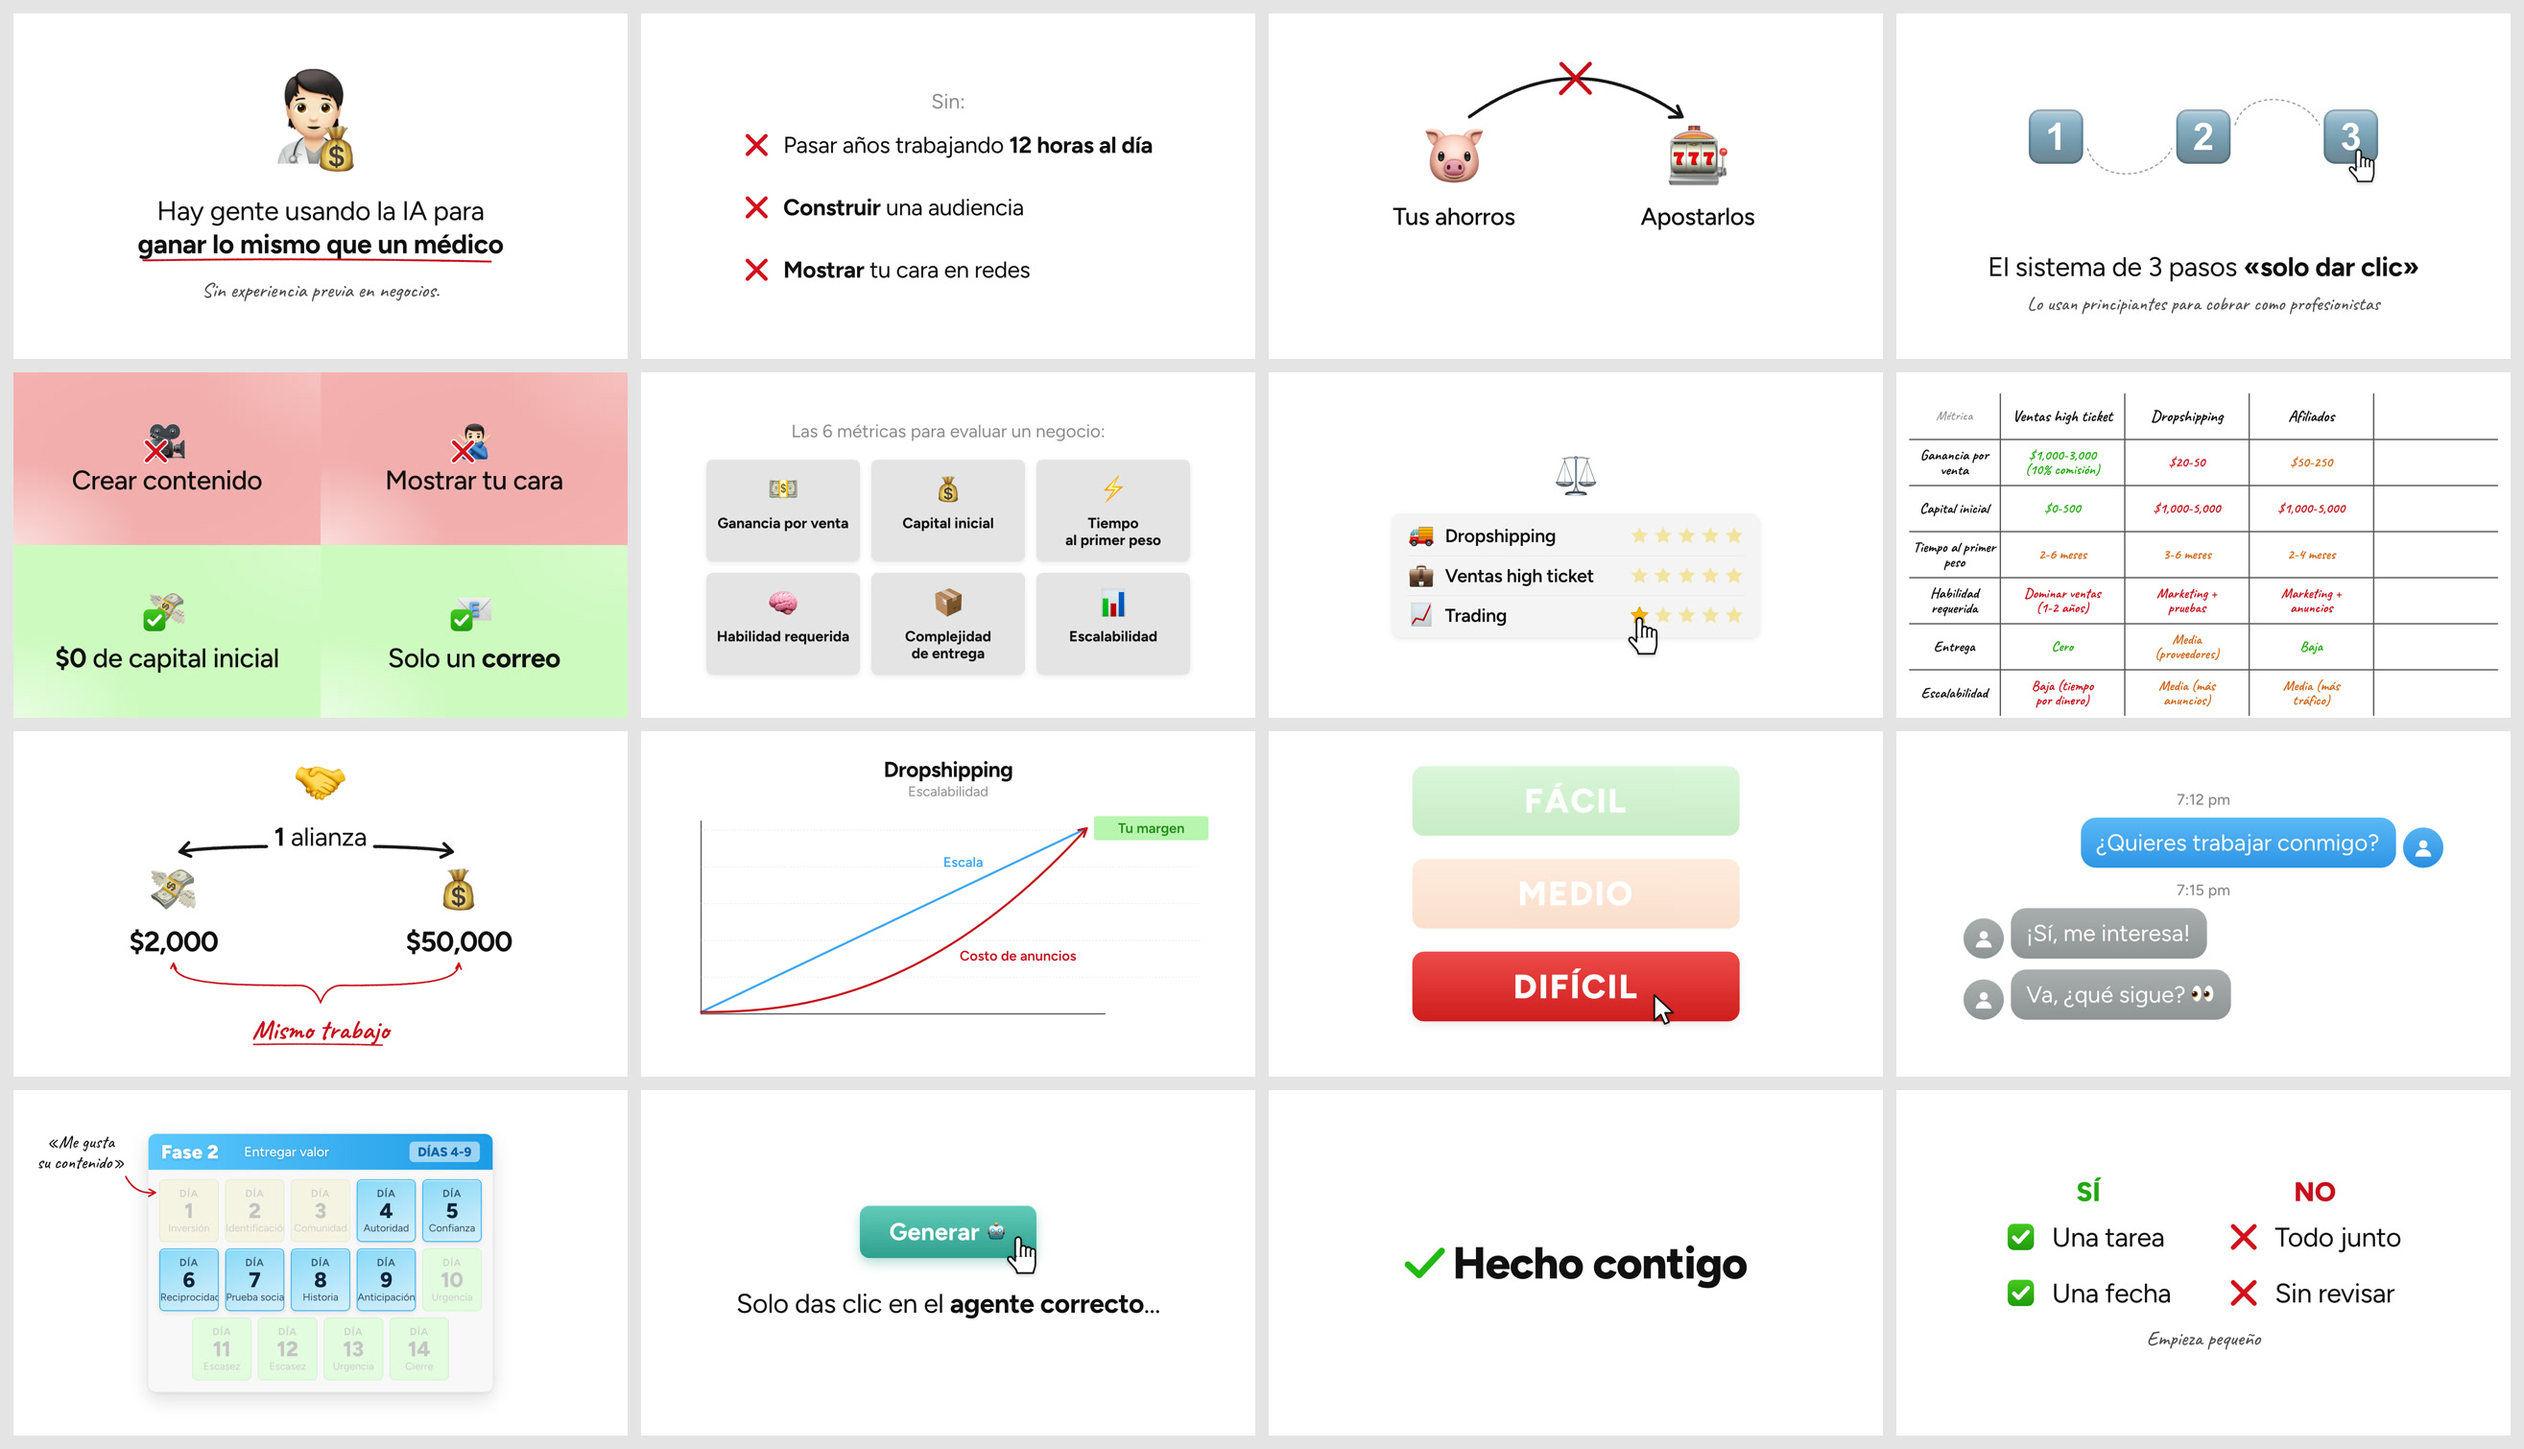
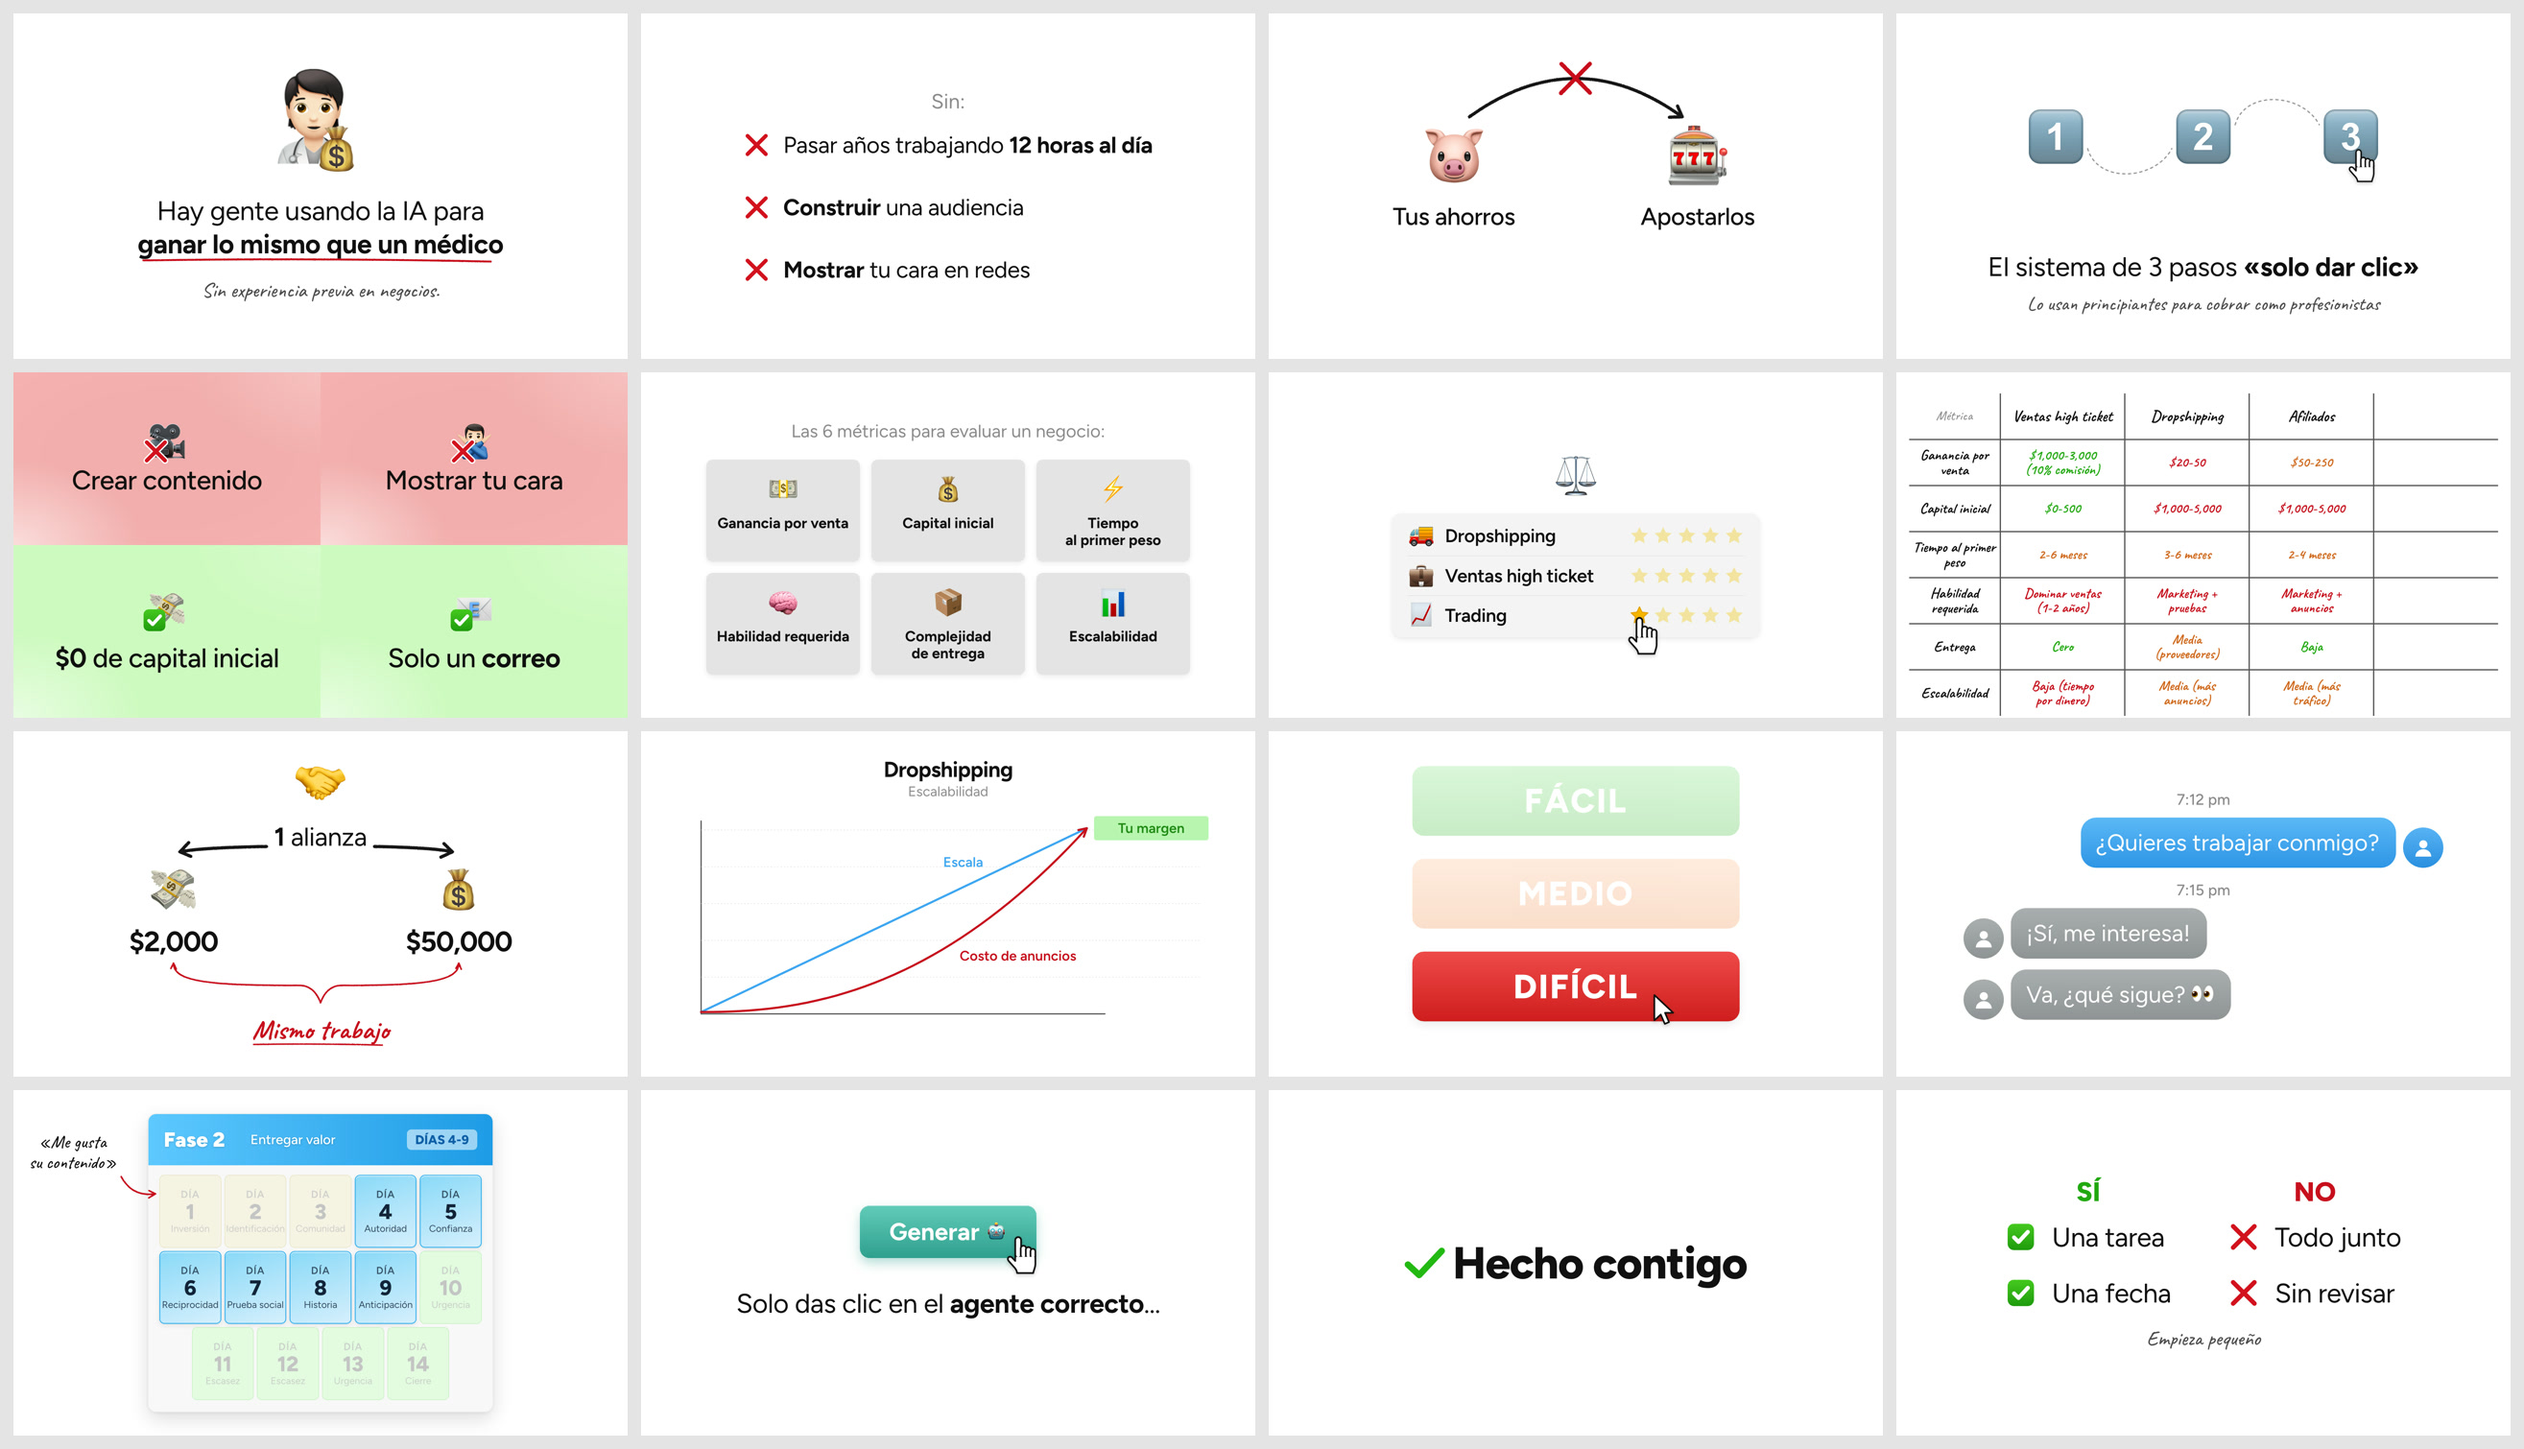
mejora(r21): los rótulos del calendario grande ya no se cortan en su tarjeta
Al integrar la ronda 21 (calendario que llena el alto), «Identificación» se cortaba en el borde de su tarjeta: el rótulo
tiene overflow oculto y una palabra no se parte. `ajustarSubsCalendario` iguala la letra de todos los rótulos hasta que
el más ancho quepa (piso de 30 px, el mínimo de QA). Vitrina regenerada.

Changed region(s): [[0.0, 0.747, 0.2183, 0.9649]]

diff --git a/templates/runtime-legibilidad.js b/templates/runtime-legibilidad.js
@@ -244,3 +244,16 @@ function ajustarFlujoVertical(lam) {
   let t = Math.max(...ets.map(e => parseFloat(getComputedStyle(e).fontSize) || 84));
   for (; t > 76 && ets.some(e => ancho(e) > 780); t -= 4) ets.forEach(e => e.style.fontSize = (t - 4) + 'px');
 }
+
+// R21 [demo 25]: con el calendario grande, «Identificación» (una sola palabra) se cortaba en el borde de su tarjeta: el
+// rótulo tiene overflow oculto y una palabra no se parte. Una letra común para todos los rótulos del calendario, que baja
+// de 1 en 1 hasta que el rótulo más ancho quepa (piso 30 px, el mínimo de QA para texto visible).
+function ajustarSubsCalendario(lam) {
+  const subs = [...lam.querySelectorAll('.calendario .dia span')].filter(e => e.textContent.trim() && e.getClientRects().length);
+  if (!subs.length) return;
+  // contra la TARJETA con 4 px de aire por lado: medido contra el propio rótulo, «Identificación» quedaba pegada al borde.
+  // El piso es el de QA para texto visible (30 px): si ni así cabe, QA le pide al autor un rótulo más corto.
+  const desborda = () => subs.some(e => e.scrollWidth > Math.min(e.clientWidth + 1, e.parentElement.clientWidth - 8));
+  let t = Math.max(...subs.map(e => parseFloat(getComputedStyle(e).fontSize) || 32));
+  for (; t > 30 && desborda(); t -= 1) subs.forEach(e => e.style.fontSize = (t - 1) + 'px');
+}

diff --git a/templates/runtime.js b/templates/runtime.js
@@ -1207,7 +1207,7 @@
     lams.forEach(l => { try { ampliarFilas(l); alinearFlujoMixto(l); ajustarFlujoVertical(l); } catch (e) { avisos.push(`lámina ${+l.dataset.i + 1}: escala de fila (${e.message})`); } });
     lams.forEach(l => { try { colocarSignos(l); } catch (e) { avisos.push(`lámina ${+l.dataset.i + 1}: signos (${e.message})`); } });
     lams.forEach(l => { try { igualarCuadros(l); } catch (e) { avisos.push(`lámina ${+l.dataset.i + 1}: cuadrantes (${e.message})`); } });
-    lams.forEach(l => { try { ajustarCifras(l); } catch (e) { avisos.push(`lámina ${+l.dataset.i + 1}: cifra (${e.message})`); } });
+    lams.forEach(l => { try { ajustarCifras(l); ajustarSubsCalendario(l); } catch (e) { avisos.push(`lámina ${+l.dataset.i + 1}: cifra o calendario (${e.message})`); } });
     lams.forEach(l => { try { ajustarCaveat(l); ajustarNotasLlave(l); } catch (e) { avisos.push(`lámina ${+l.dataset.i + 1}: nota de llave (${e.message})`); } });
     lams.forEach(l => { try { ajustarTablas(l); } catch (e) { avisos.push(`lámina ${+l.dataset.i + 1}: tabla (${e.message})`); } });
     lams.forEach(l => { try { ajustarFirma(l); } catch (e) { avisos.push(`lámina ${+l.dataset.i + 1}: firma (${e.message})`); } });

diff --git a/CLAUDE.md b/CLAUDE.md
@@ -380,3 +380,6 @@ Desde Codex/sandbox: consulta [PROTOCOLO, Desde Codex / sandbox](references/PROT
   esta ronda: `armar.mjs` no renderiza ni un PNG mientras quede cualquier aviso (incluida la duración), dejando al
   autor sin ver el resultado visual mientras ajusta pacing; y un reel con los 8 elementos típicos de una pieza
   completa no cabe en 60s pase lo que pase.
+- R21 (laptop, al integrar): `runtime-legibilidad.js → ajustarSubsCalendario` iguala la letra de los rótulos de día del
+  calendario hasta que el más ancho quepa en su tarjeta (4 px de aire, piso de 30 px, el mínimo de QA): con el calendario
+  grande de la ronda 21, «Identificación» se cortaba en el borde.
